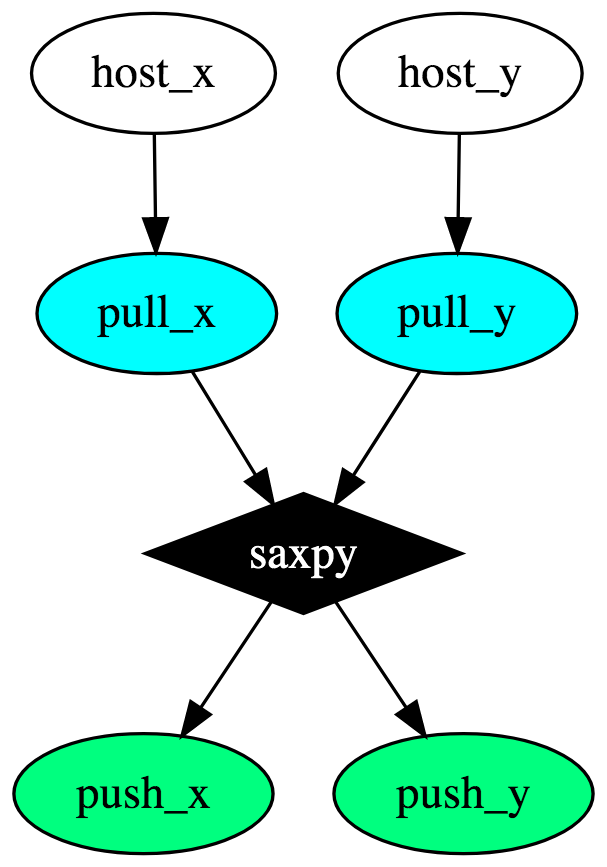
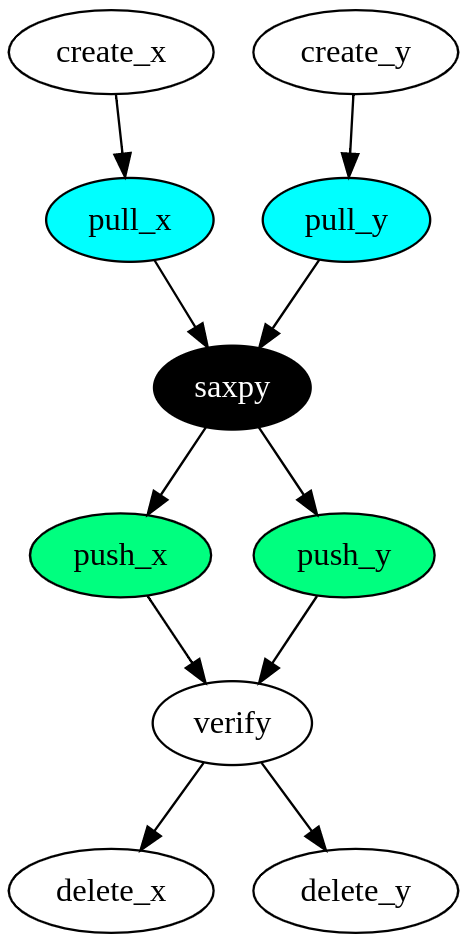
updated readme

diff --git a/heteroflow/core/task.hpp b/heteroflow/core/task.hpp
@@ -522,8 +522,8 @@ class PushTask : public TaskBase<PushTask> {
     template <typename P, typename N>
     PushTask push(PullTask, P&&, N&&);
    
-    template <typename P, typename N, typename O>
-    PushTask push(PullTask, P&& p, N&& n, O&& offset);
+    template <typename P, typename O, typename N>
+    PushTask push(PullTask, P&& p, O&& offset, N&& n);
 
   private:
 
@@ -563,8 +563,8 @@ PushTask PushTask::push(PullTask source, P&& p, N&& n) {
 }
 
 // Function: push
-template <typename P, typename N, typename O>
-PushTask PushTask::push(PullTask source, P&& p, N&& n, O&& offset) {
+template <typename P, typename O, typename N>
+PushTask PushTask::push(PullTask source, P&& p, O&& o, N&& n) {
 
   HF_THROW_IF(!_node,  "push task can't be empty");
   HF_THROW_IF(!source, "pull task can't be empty");
@@ -574,12 +574,12 @@ PushTask PushTask::push(PullTask source, P&& p, N&& n, O&& offset) {
   h.source = source._node;
 
   h.work = [
-    task   = *this, 
-    ptr    = std::forward<P>(p), 
-    size   = std::forward<N>(n), 
-    offset = std::forward<O>(offset)
+    t = *this, 
+    p = std::forward<P>(p), 
+    o = std::forward<O>(o),
+    n = std::forward<N>(n) 
   ] (cudaStream_t stream) mutable {
-    task._invoke_push(ptr, size, offset, stream);
+    t._invoke_push(p, o, n, stream);
   };
 
   return *this;
@@ -588,7 +588,7 @@ PushTask PushTask::push(PullTask source, P&& p, N&& n, O&& offset) {
 // Procedure: _invoke_push
 template <typename P>
 void PushTask::_invoke_push(
-  P &&h_data, size_t h_size, size_t offset, cudaStream_t stream
+  P &&h_data, size_t offset, size_t h_size, cudaStream_t stream
 ) {
   // get the handle and device memory
   auto& h = _node->_push_handle();

diff --git a/README.md b/README.md
@@ -31,34 +31,40 @@ __global__ void saxpy(int n, float a, float *x, float *y) {
 
 int main(void) {
 
-  const int num_items = 1<<20;                    // total items
-  const int num_bytes = num_items*sizeof(float);  // total bytes
+  const int items = 1<<20;                // total items
+  const int bytes = items*sizeof(float);  // total bytes
   float* x {nullptr};
   float* y {nullptr};
 
-  hf::Executor executor;                          // create an executor
-  hf::Heteroflow hf("saxpy");                     // create a task dependency graph 
+  hf::Executor executor;                  // create an executor
+  hf::Heteroflow hf("saxpy");             // create a task dependency graph 
+  
+  auto host_x = hf.host([&]{ x = create_vector(N, 1.0f); }).name("create_x");
+  auto host_y = hf.host([&]{ y = create_vector(N, 2.0f); }).name("create_y"); 
+  auto pull_x = hf.pull(std::ref(x), B).name("pull_x");
+  auto pull_y = hf.pull(std::ref(y), B).name("pull_y");
+  auto kernel = hf.kernel((N+255)/256, 256, 0, saxpy, N, 2.0f, pull_x, pull_y)
+                  .name("saxpy");
+  auto push_x = hf.push(pull_x, std::ref(x), B).name("push_x");
+  auto push_y = hf.push(pull_y, std::ref(y), B).name("push_y");
+  auto verify = hf.host([&]{ verify_result(x, y, N); }).name("verify");
+  auto kill_x = hf.host([&]{ delete_vector(x); }).name("delete_x");
+  auto kill_y = hf.host([&]{ delete_vector(y); }).name("delete_y");
 
-  auto host_x = hf.host([&](){ x = new float[num_items]; std::fill_n(x, num_items, 1.0f); });
-  auto host_y = hf.host([&](){ y = new float[num_items]; std::fill_n(y, num_items, 2.0f); });
-  auto pull_x = hf.pull(std::ref(x), num_bytes); 
-  auto pull_y = hf.pull(std::ref(y), num_bytes);           
-  auto kernel = hf.kernel((num_items+255)/256, 256, 0, saxpy, num_items, 2.0f, pull_x, pull_y);
-  auto push_x = hf.push(pull_x, std::ref(x));
-  auto push_y = hf.push(pull_y, std::ref(y));
+  host_x.precede(pull_x);                 // host tasks run before pull tasks
+  host_y.precede(pull_y);
+  kernel.precede(push_x, push_y)          // kernel runs before/after push/pull tasks
+        .succeed(pull_x, pull_y); 
+  verify.precede(kill_x, kill_y)          // verifier runs before/after kill/push tasks
+        .succeed(push_x, push_y); 
 
-  host_x.precede(pull_x);                         // host_x runs before pull_x
-  host_y.precede(pull_y);                         // host_y runs before pull_y
-  kernel.precede(push_x, push_y)                  // kernel runs before push_x and push_y
-        .succeed(pull_x, pull_y);                 // kernel runs after  pull_x and pull_Y
-
-  executor.run(hf).wait();                        // execute the task dependency graph
+  executor.run(hf).wait();                // execute the task dependency graph
 }
 ```
 
 The saxpy task dependency graph is shown in the following figure:
 
-<img src="images/saxpy.png" width="65%">
+![SaxpyTaskGraph](images/saxpy.png)
 
 
 Compile and run the code with the following commands:
@@ -116,37 +122,22 @@ for each byte of the memory.
 hf::PullTask gpu_mem1 = heteroflow.pull(nullptr, 256);
 hf::PullTask gpu_mem2 = heteroflow.pull(nullptr, 256, 0); 
 ```
-
-The arguments to pass to `Heteroflow::pull` can be *stateful*,
-in which variables are captured by reference through [std::ref][std::ref].
-Stateful capture is useful for variables that cannot decide 
-values until runtime,
-or that take advantage of host tasks to modify values for 
-task parallelism.
-
-```cpp
-float* runtime_data{nullptr};
-size_t size{0}, bytes{0};
-hf::HostTask host = heteroflow.host([&](){      // capture everything by reference
-  runtime_data = new float[size=100];           // change size and data at runtime
-  bytes = size*sizeof(float);
-});
-hf::PullTask stateful_pull = heteroflow.pull(std::ref(runtime_data), std::ref(bytes));
-```
  
 ### Push Task
 
-A push task copies GPU data associated with a pull task back to a host memory area.
+A push task copies GPU data in a pull task back to a host memory area.
 
 ```cpp
-// using the pull and data example above
 hf::PushTask push = heteroflow.push(pull, data, 10*sizeof(float));
 ```
 
-You can give an *offset* in bytes to change the beginning point of the memory block in the pull task.
+You can give an *offset* in bytes to indicate the starting point
+of the push operation.
+The code snippet below skips the first three floats and
+copies the remaining seven floats from a memory block of a pull task
+to a host memory area pointed by data.
 
 ```cpp
-// skips the first 3 floats in the gpu memory block of pull
 hf::PushTask push = heteroflow.push(pull, data, 3*sizeof(float), 7*sizeof(float))
 ```
 
@@ -155,9 +146,8 @@ hf::PushTask push = heteroflow.push(pull, data, 3*sizeof(float), 7*sizeof(float)
 A kernel task offloads a kernel function to a GPU device.
 Heteroflow abstracts GPU memory through pull tasks 
 to perform automatic device mapping and memory allocation at runtime.
-Having said that, 
-each pull task can convert to a pointer of whatever data type specified 
-in the kernel function.
+Each pull task will implicitly convert to the pointer type in the corresponding
+argument entry of the kernel function.
 
 ```cpp
 __global__ void my_kernel(float* data, int N);
@@ -225,8 +215,38 @@ executor.wait_for_all();  // block until all associated tasks finish
 Notice that executor does not own any heteroflow. 
 It is your responsibility to keep a heteroflow alive during its execution,
 or it can result in undefined behavior.
-In most applications, you need only one executor to run multiple hteroflows
+In most applications, you need only one executor to run multiple heteroflows
 each representing a specific part of your parallel decomposition.
+
+## Stateful Execution
+
+Heteroflow leverages modern C++ meta-programming 
+to let users capture variables in reference through [std::ref][std::ref].
+for *stateful* execution.
+Maintaining state transitions of variables enables flexible runtime controls 
+and fine-grained task parallelism.
+Users can partition a large workload into small parallel blocks and append
+dependencies between tasks to keep variable states consistent.
+Below the code snippet uses a host task to allocate a memory block.
+The change on `data` and `size` will be visible to the execution
+context of the succeeding pull task.
+
+```cpp
+float* data{nullptr};
+size_t size{0};
+
+auto host = heteroflow.host([&](){      // captures everything by reference
+  data = new float[100];                // changes size and data at runtime
+  size = 100*sizeof(float);
+});
+
+auto pull = heteroflow.pull(std::ref(data), std::ref(size))
+                      .succeed(host);
+```
+
+The variables to forward to other tasks can be made stateful
+in a similar fashion.
+
 
 # System Requirements
 
@@ -243,8 +263,6 @@ Heteroflow is licensed under the [MIT License](./LICENSE).
 [span::data]:            https://en.cppreference.com/w/cpp/container/span/data
 [std::invoke]:           https://en.cppreference.com/w/cpp/utility/functional/invoke
 [std::future]:           https://en.cppreference.com/w/cpp/thread/future
-
-
 [cuda-zone]:             https://developer.nvidia.com/cuda-zone
 [nvcc]:                  https://developer.nvidia.com/cuda-llvm-compiler
 
